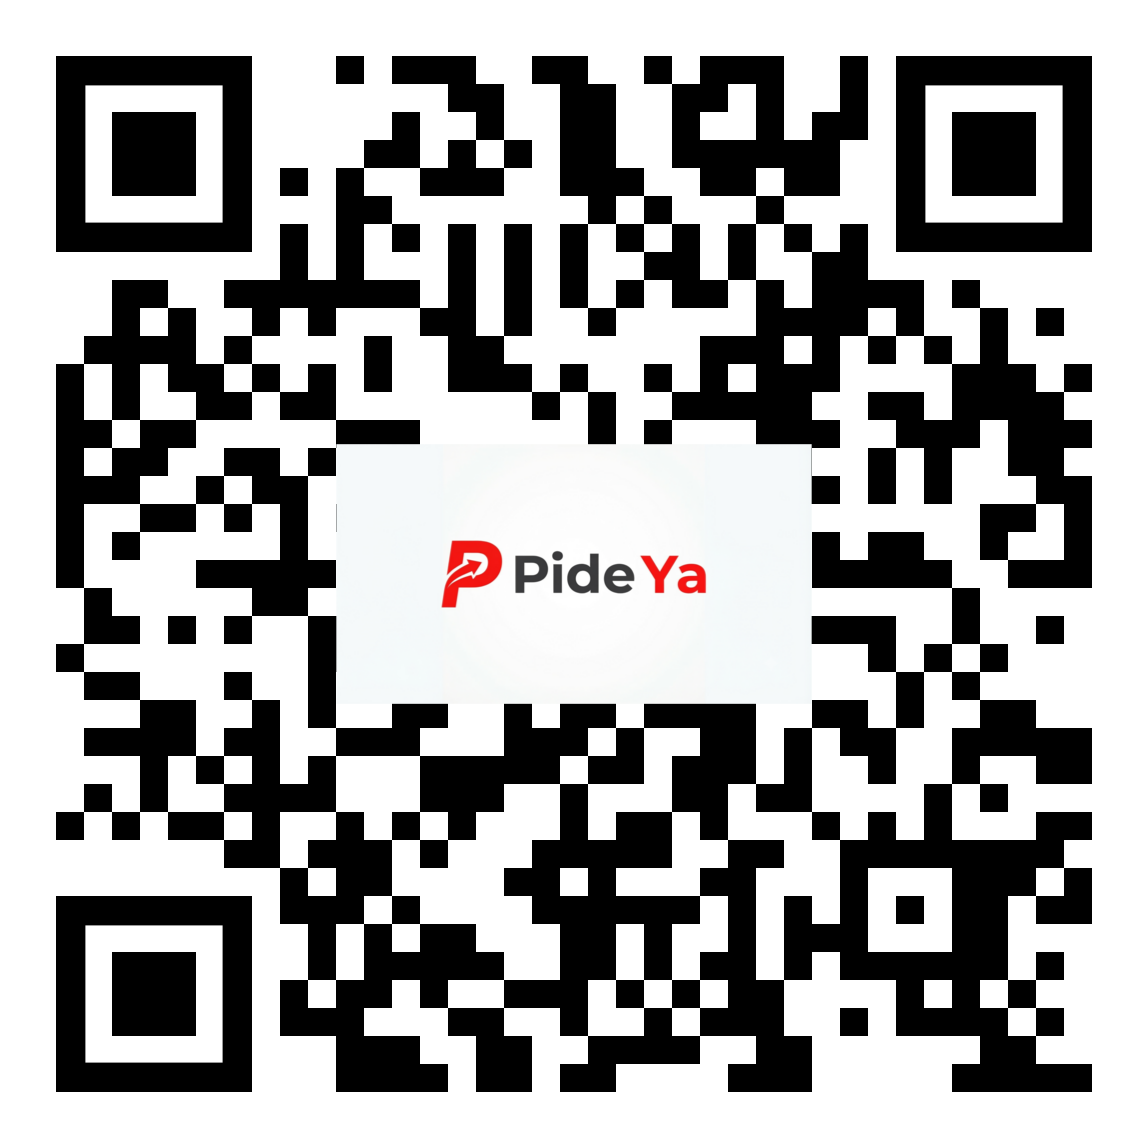
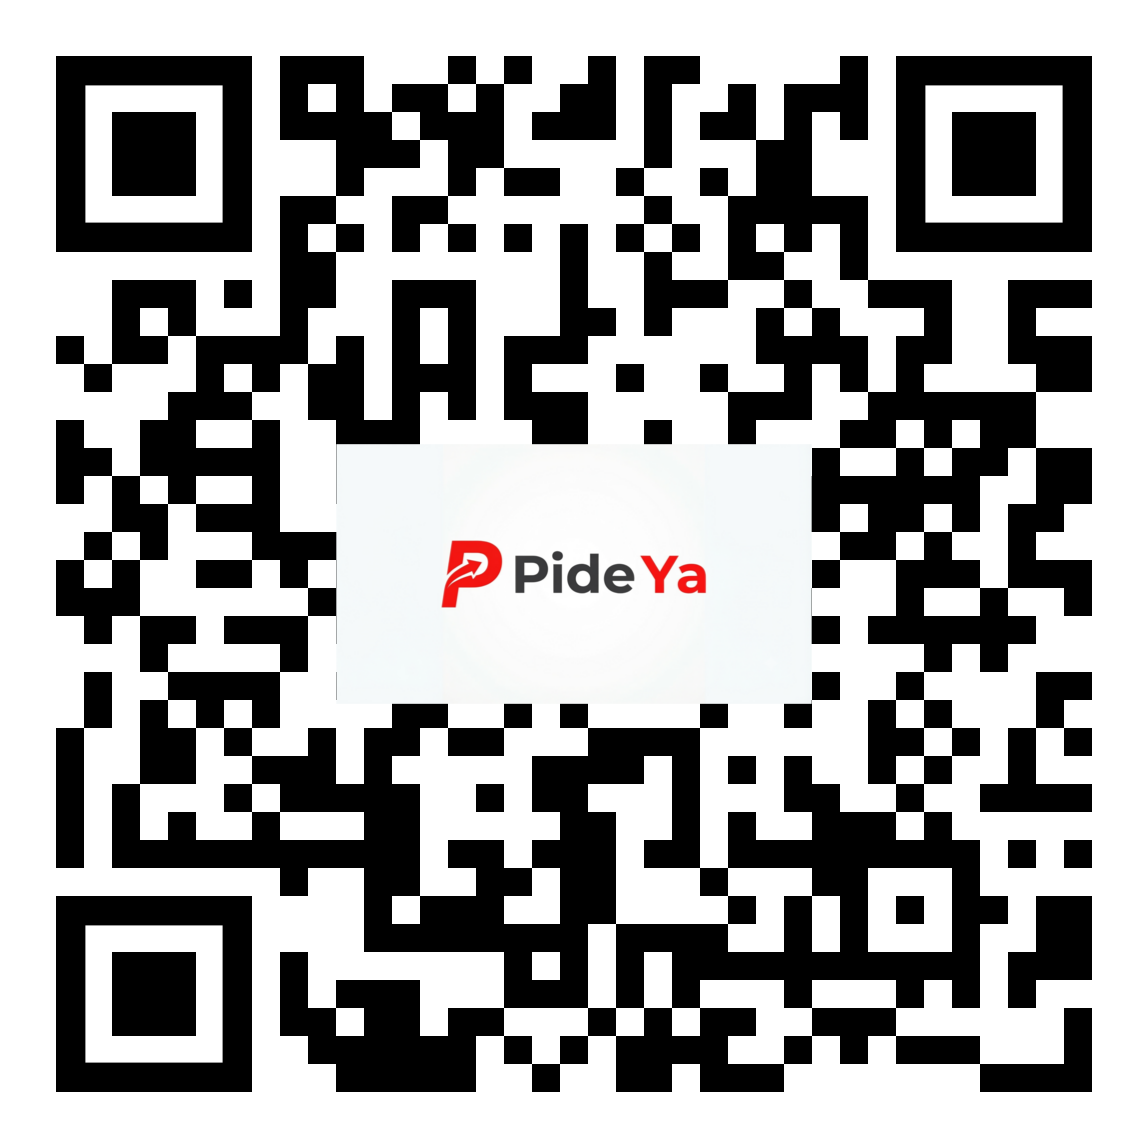
Add files via upload

Changed region(s): [[0.0305, 0.0305, 0.9756, 0.9756], [0.2134, 0.3659, 0.2439, 0.3963]]

diff --git a/gerente-core.js b/gerente-core.js
@@ -1,10 +1,10 @@
 /**
- * AGROVANT AGRICOLA CONTROL - Motor de Auditoría y Semáforo de Maduración
- * Cliente: AGROVANT AGRÍCOLA (Tractores y Maquinaria Agrícola)
+ * TRAIL-MAQ CONTROL - Motor de Auditoría y Semáforo de Maduración
+ * Cliente: TRAIL-MAQ (Carrocerías, Cajas Secas y Remolques)
  */
 
-const CLAVE_GERENCIAL_ACCESO = "AGROVANT2026"; 
-const ASESORES_AGENCIA = ["Asesor Tractores Medianos", "Asesor Tractores Alta Potencia", "Asesor Cosechadoras", "Asesor Implementos", "Asesor Financiamiento", "Asesor Paquetes de Rancho"];
+const CLAVE_GERENCIAL_ACCESO = "TRAILMAQ2026"; 
+const ASESORES_AGENCIA = ["Asesor Cajas Secas", "Asesor Cajas Refrigeradas", "Asesor Plataformas", "Asesor Tolvas y Volteos", "Asesor Financiamiento", "Asesor Paquetes de Flotillas"];
 
 function verificarAccesoGerente() {
     const inputClave = document.getElementById('pass-input').value;
@@ -32,7 +32,7 @@ function cargarYProcesarAuditoria() {
     let verdes = 0; let amarillos = 0; let rojos = 0;
     
     if (total === 0) {
-        tbody.innerHTML = `<tr><td colspan="7" style="text-align:center; color:#555; padding: 20px;">No hay registros de productores todavía.</td></tr>`;
+        tbody.innerHTML = `<tr><td colspan="7" style="text-align:center; color:#555; padding: 20px;">No hay registros de transportistas todavía.</td></tr>`;
         actualizarIndicadoresKPI(0, 0, 0, 0);
         return;
     }
@@ -89,7 +89,7 @@ function exportarAExcel() {
     if (registros.length === 0) { alert("No hay datos para exportar."); return; }
     
     let csvContent = "data:text/csv;charset=utf-8,\uFEFF"; 
-    csvContent += "Fecha,Productor,WhatsApp,Tractor / Equipo Interes,Aplicacion Parcela,Prioridad,Asesor Asignado\n";
+    csvContent += "Fecha,Transportista,WhatsApp,Carroceria / Remolque Interes,Operacion Ruta,Prioridad,Asesor Asignado\n";
     
     registros.forEach((p) => {
         csvContent += `"${p.fecha_registro || ''}","${p.nombre || ''}","${p.whatsapp || ''}","${p.modelo || ''}","${p.uso || ''}","${p.prioridad || ''}","${p.asesor || ''}"\n`;
@@ -98,7 +98,7 @@ function exportarAExcel() {
     const encodedUri = encodeURI(csvContent);
     const link = document.createElement("a");
     link.setAttribute("href", encodedUri);
-    link.setAttribute("download", "Reporte_Leads_Agrovant_Agricola.csv");
+    link.setAttribute("download", "Reporte_Leads_Trail_Maq.csv");
     document.body.appendChild(link);
     link.click();
     document.body.removeChild(link);

diff --git a/gerente.html b/gerente.html
@@ -3,7 +3,7 @@
 <head>
     <meta charset="UTF-8">
     <meta name="viewport" content="width=device-width, initial-scale=1.0">
-    <title>Panel Gerencial - Control de Leads | AGROVANT AGRÍCOLA</title>
+    <title>Panel Gerencial - Control de Leads | CARROCERÍAS Y REMOLQUES TRAIL-MAQ</title>
     <link rel="stylesheet" href="https://cdnjs.cloudflare.com/ajax/libs/font-awesome/6.0.0/css/all.min.css">
     <style>
         body { font-family: 'Arial', sans-serif; background-color: #111; color: #fff; margin: 0; padding: 20px; }
@@ -61,7 +61,7 @@
         <!-- PANEL GERENCIAL PRINCIPAL -->
         <div id="panel-gerente" style="display: none;">
             <div style="display: flex; justify-content: space-between; align-items: center; margin-bottom: 20px;">
-                <h1 style="margin: 0; font-size: 24px;">AGROVANT AGRÍCOLA - Control de Auditoría Agroindustria</h1>
+                <h1 style="margin: 0; font-size: 24px;">TRAIL-MAQ - Control de Auditoría Logística y Flotillas</h1>
                 <button onclick="cerrarSesionGerente()" class="btn btn-logout"><i class="fas fa-sign-out-alt"></i> Salir</button>
             </div>
 
@@ -85,7 +85,7 @@
                 </div>
             </div>
 
-            <h2 style="text-align: left; font-size: 18px; margin-bottom: 15px;">Estatus de Maduración del Productor</h2>
+            <h2 style="text-align: left; font-size: 18px; margin-bottom: 15px;">Estatus de Maduración del Transportista</h2>
 
             <!-- BARRA DE ACCIONES CON BOTONES NUEVOS -->
             <div class="action-bar">
@@ -104,10 +104,10 @@
                         <tr>
                             <th>SEMÁFORO</th>
                             <th>FECHA</th>
-                            <th>PROSP. / PRODUCTOR</th>
+                            <th>PROSP. / TRANSPORTISTA</th>
                             <th>WHATSAPP</th>
-                            <th>TRACTOR / EQUIPO INTERÉS</th>
-                            <th>APLICACIÓN / PARCELA</th>
+                            <th>CARROCERÍA / REMOLQUE INTERÉS</th>
+                            <th>OPERACIÓN / RUTA</th>
                             <th>ASESOR ASIGNADO</th>
                         </tr>
                     </thead>

diff --git a/index.html b/index.html
@@ -7,13 +7,13 @@
     
     <!-- CONFIGURACIÓN DE OPEN GRAPH (OG SHARE) MEJORADA -->
     <meta property="og:type" content="website" />
-    <meta property="og:url" content="https://demo-agricola.pideya.contact/" />
-    <meta property="og:title" content="TRAIL-MAQ … potencia implacable para tu producción." />
-    <meta property="og:description" content="Explora la experiencia TRAIL-MAQ. Potencia, durabilidad y tecnología de precisión para tu empresa." />
+    <meta property="og:url" content="https://demo-carrocerias.pideya.contact/" />
+    <meta property="og:title" content="TRAIL-MAQ | Carrocerías, Cajas Secas y Remolques a la Medida" />
+    <meta property="og:description" content="Explora la experiencia TRAIL-MAQ. Durabilidad, ingeniería superior y diseño personalizado para tu flota y rutas." />
     
     <!-- Ruta absoluta apuntando a la nueva imagen y dominio de Cloudflare -->
-    <meta property="og:image" content="https://demo-agricola.pideya.contact/og_agricola.jpg" />
-    <meta property="og:image:secure_url" content="https://demo-agricola.pideya.contact/og_agricola.jpg" />
+    <meta property="og:image" content="https://demo-carrocerias.pideya.contact/og_remolque.jpg" />
+    <meta property="og:image:secure_url" content="https://demo-carrocerias.pideya.contact/og_remolque.jpg" />
     <meta property="og:image:type" content="image/jpeg" />
     <meta property="og:image:width" content="1200" />
     <meta property="og:image:height" content="630" />
